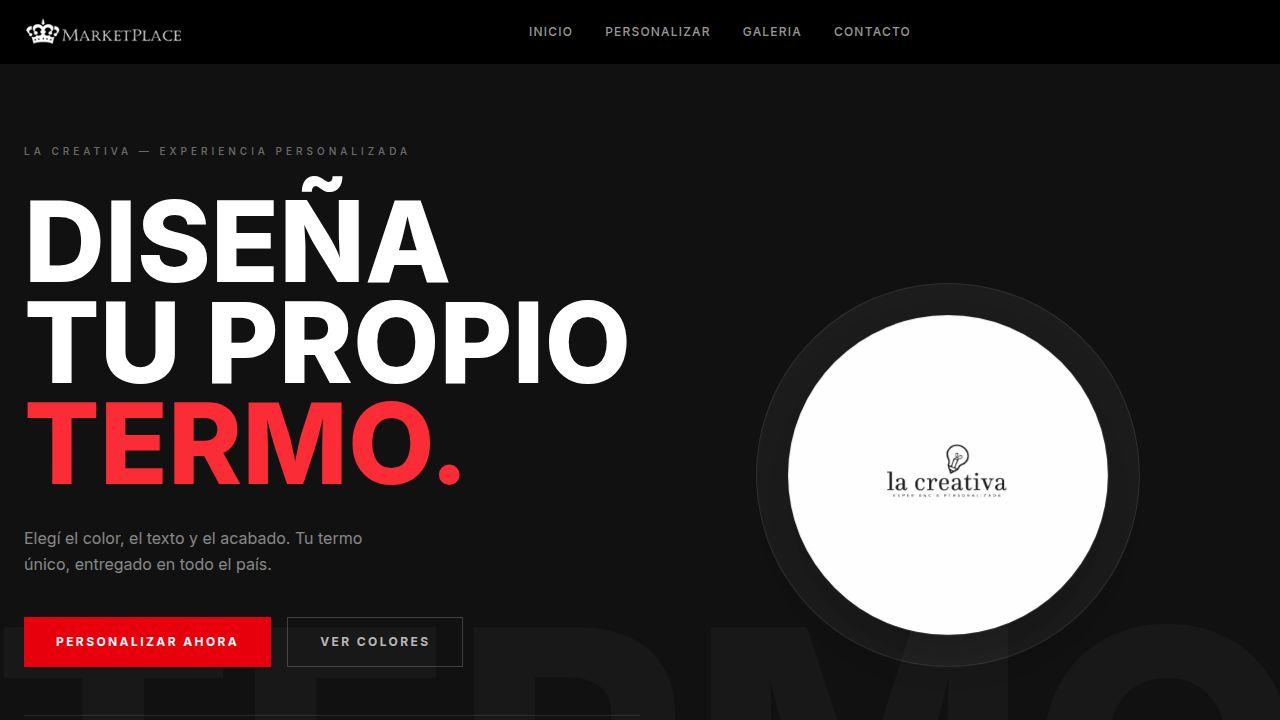
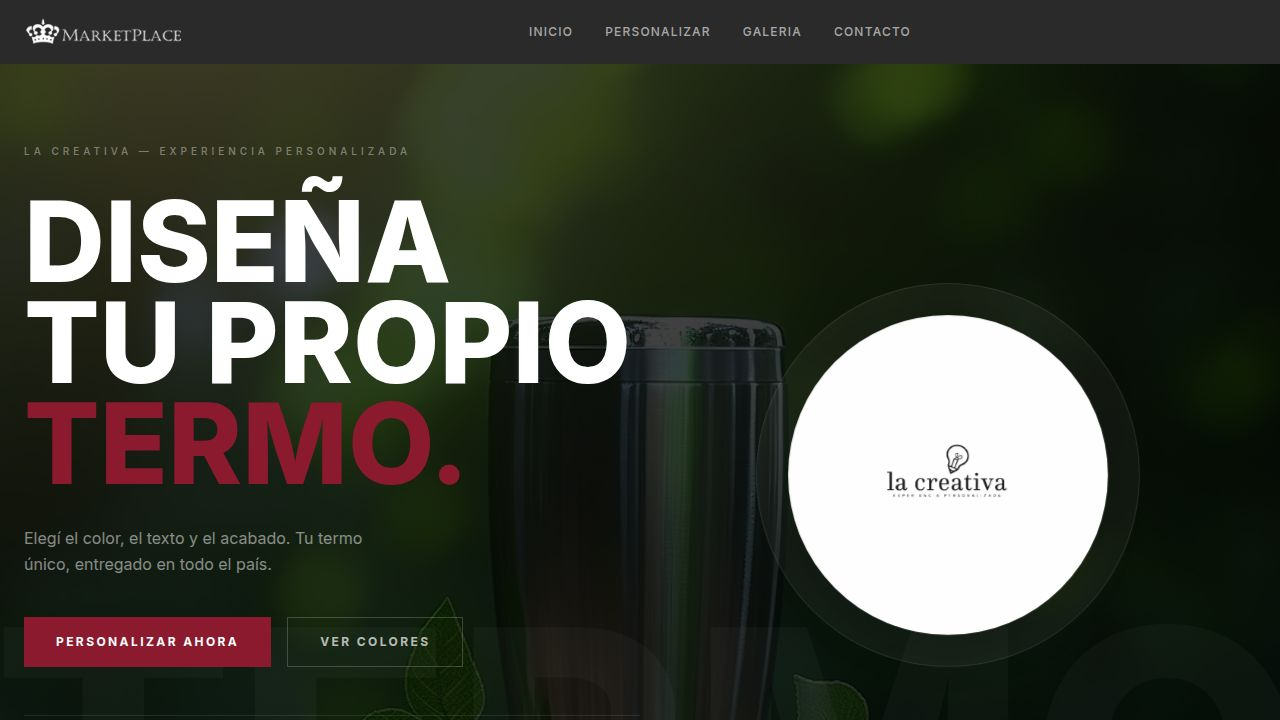
Add custom font files to the website for personalized thermos designs
Register uploaded font files (.ttf, .otf) by adding @user declarations in index.css and updating the FONTS array in customizer.tsx, and copy them to the public/fonts directory.

Replit-Commit-Author: Agent
Replit-Commit-Session-Id: 5fa5bf31-d636-495c-a52a-97b251625415
Replit-Commit-Checkpoint-Type: full_checkpoint
Replit-Commit-Event-Id: 71bc209d-0389-46ff-8db7-1c155dfb0ceb
Replit-Commit-Screenshot-Url: https://storage.googleapis.com/screenshot-production-us-central1/fd71bae9-b22c-415f-9f9f-bcc0e6e1fff1/5fa5bf31-d636-495c-a52a-97b251625415/RkX8vMC
Replit-Helium-Checkpoint-Created: true

diff --git a/artifacts/termos-landing/src/index.css b/artifacts/termos-landing/src/index.css
@@ -2,6 +2,55 @@
 @import "tw-animate-css";
 @plugin "@tailwindcss/typography";
 
+@font-face {
+  font-family: 'Cronos Pro';
+  src: url('/fonts/Cronos-Pro-Subhead.ttf') format('truetype');
+  font-weight: 600;
+  font-style: normal;
+}
+@font-face {
+  font-family: 'Cronos Pro';
+  src: url('/fonts/Cronos-Pro-Display-Italic.ttf') format('truetype');
+  font-weight: 700;
+  font-style: italic;
+}
+@font-face {
+  font-family: 'Cronos Pro';
+  src: url('/fonts/Cronos-Pro-Light.ttf') format('truetype');
+  font-weight: 300;
+  font-style: normal;
+}
+@font-face {
+  font-family: 'TT Rounds Neue';
+  src: url('/fonts/TTRoundsNeue.ttf') format('truetype');
+  font-weight: 600;
+  font-style: normal;
+}
+@font-face {
+  font-family: 'Freestyle Script';
+  src: url('/fonts/FreestyleScript.ttf') format('truetype');
+  font-weight: 400;
+  font-style: normal;
+}
+@font-face {
+  font-family: 'Ellisha';
+  src: url('/fonts/Ellisha.otf') format('opentype');
+  font-weight: 400;
+  font-style: italic;
+}
+@font-face {
+  font-family: 'Billion Dreams';
+  src: url('/fonts/BillionDreams.ttf') format('truetype');
+  font-weight: 400;
+  font-style: normal;
+}
+@font-face {
+  font-family: 'Amertha';
+  src: url('/fonts/Amertha.ttf') format('truetype');
+  font-weight: 400;
+  font-style: normal;
+}
+
 @custom-variant dark (&:is(.dark *));
 
 @theme inline {

diff --git a/artifacts/termos-landing/src/components/customizer.tsx b/artifacts/termos-landing/src/components/customizer.tsx
@@ -37,9 +37,9 @@ const FINISHES = [
 ];
 
 const FONTS = [
-  { id: "f1",  name: "Cronos Pro",        style: { fontFamily: "'Abril Fatface', serif" } },
+  { id: "f1",  name: "Cronos Pro",        style: { fontFamily: "'Cronos Pro', serif", fontWeight: 600 } },
   { id: "f2",  name: "Renogare",          style: { fontFamily: "'Bebas Neue', sans-serif", letterSpacing: "0.1em" } },
-  { id: "f3",  name: "TT Rounds Neue",    style: { fontFamily: "'Righteous', sans-serif" } },
+  { id: "f3",  name: "TT Rounds Neue",    style: { fontFamily: "'TT Rounds Neue', sans-serif", fontWeight: 600 } },
   { id: "f4",  name: "Impac",             style: { fontFamily: "Impact, 'Arial Narrow', sans-serif", letterSpacing: "0.05em" } },
   { id: "f5",  name: "Heavitas",          style: { fontFamily: "'Josefin Sans', sans-serif", fontWeight: 700, textTransform: "uppercase" as const, letterSpacing: "0.08em" } },
   { id: "f6",  name: "KG Dark Side",      style: { fontFamily: "'Permanent Marker', cursive" } },
@@ -48,14 +48,14 @@ const FONTS = [
   { id: "f9",  name: "Bree Serif",        style: { fontFamily: "'Bree Serif', serif" } },
   { id: "f10", name: "Rimouski Sb",       style: { fontFamily: "'Lobster', cursive" } },
   { id: "f11", name: "Party Confetti",    style: { fontFamily: "'Caveat', cursive", fontWeight: 700 } },
-  { id: "f12", name: "Freestyle Script",  style: { fontFamily: "'Dancing Script', cursive", fontWeight: 700 } },
-  { id: "f13", name: "Kissing Season",    style: { fontFamily: "'Satisfy', cursive" } },
+  { id: "f12", name: "Freestyle Script",  style: { fontFamily: "'Freestyle Script', cursive", fontWeight: 400 } },
+  { id: "f13", name: "Kissing Season",    style: { fontFamily: "'Amertha', cursive" } },
   { id: "f14", name: "Tipografía 14",     style: { fontFamily: "'Georgia', serif", fontStyle: "italic", fontWeight: 700 } },
-  { id: "f15", name: "Eisha",             style: { fontFamily: "'Yellowtail', cursive" } },
+  { id: "f15", name: "Eisha",             style: { fontFamily: "'Ellisha', cursive", fontStyle: "italic" } },
   { id: "f16", name: "Bulgati",           style: { fontFamily: "'Abril Fatface', serif", letterSpacing: "0.05em" } },
   { id: "f17", name: "Ahony Huer",        style: { fontFamily: "'Righteous', sans-serif", letterSpacing: "0.12em" } },
   { id: "f18", name: "Era",               style: { fontFamily: "'Arial', sans-serif", fontWeight: 700, letterSpacing: "0.15em", textTransform: "uppercase" as const } },
-  { id: "f19", name: "Bii Dreams",        style: { fontFamily: "'Pacifico', cursive" } },
+  { id: "f19", name: "Bii Dreams",        style: { fontFamily: "'Billion Dreams', cursive" } },
   { id: "f20", name: "Yellowtail",        style: { fontFamily: "'Yellowtail', cursive" } },
   { id: "f21", name: "Pacífico",          style: { fontFamily: "'Pacifico', cursive" } },
   { id: "f22", name: "Milkshake",         style: { fontFamily: "'Permanent Marker', cursive", letterSpacing: "0.05em" } },